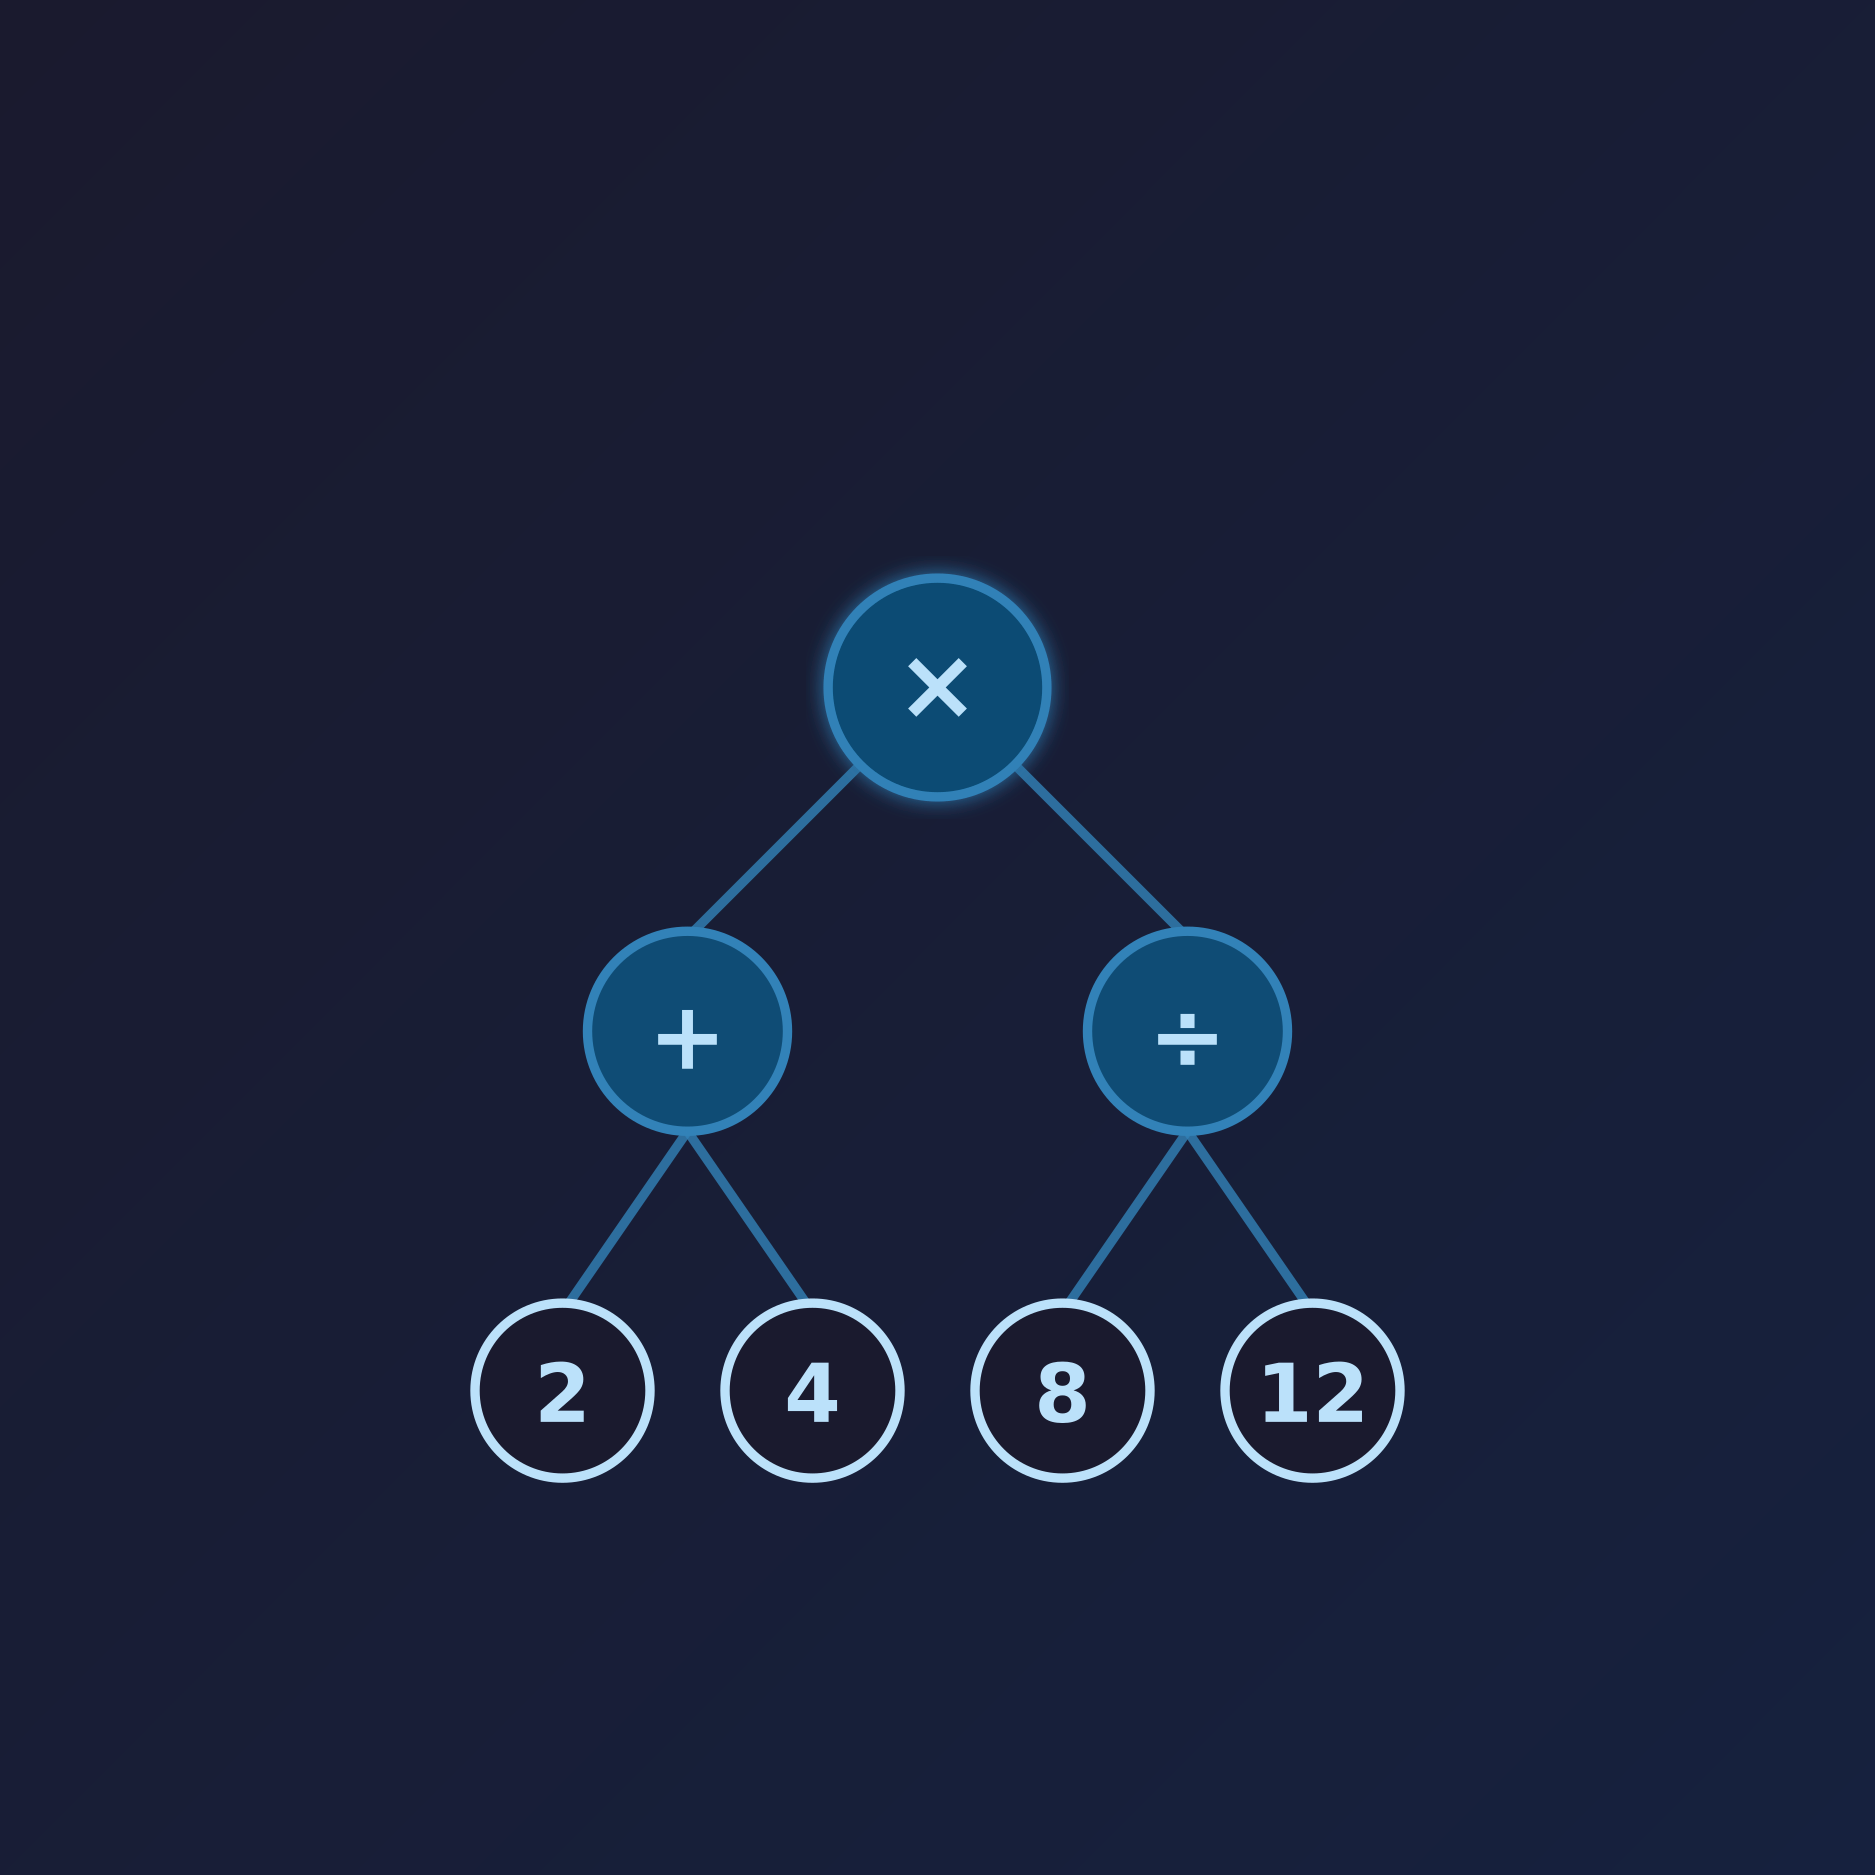
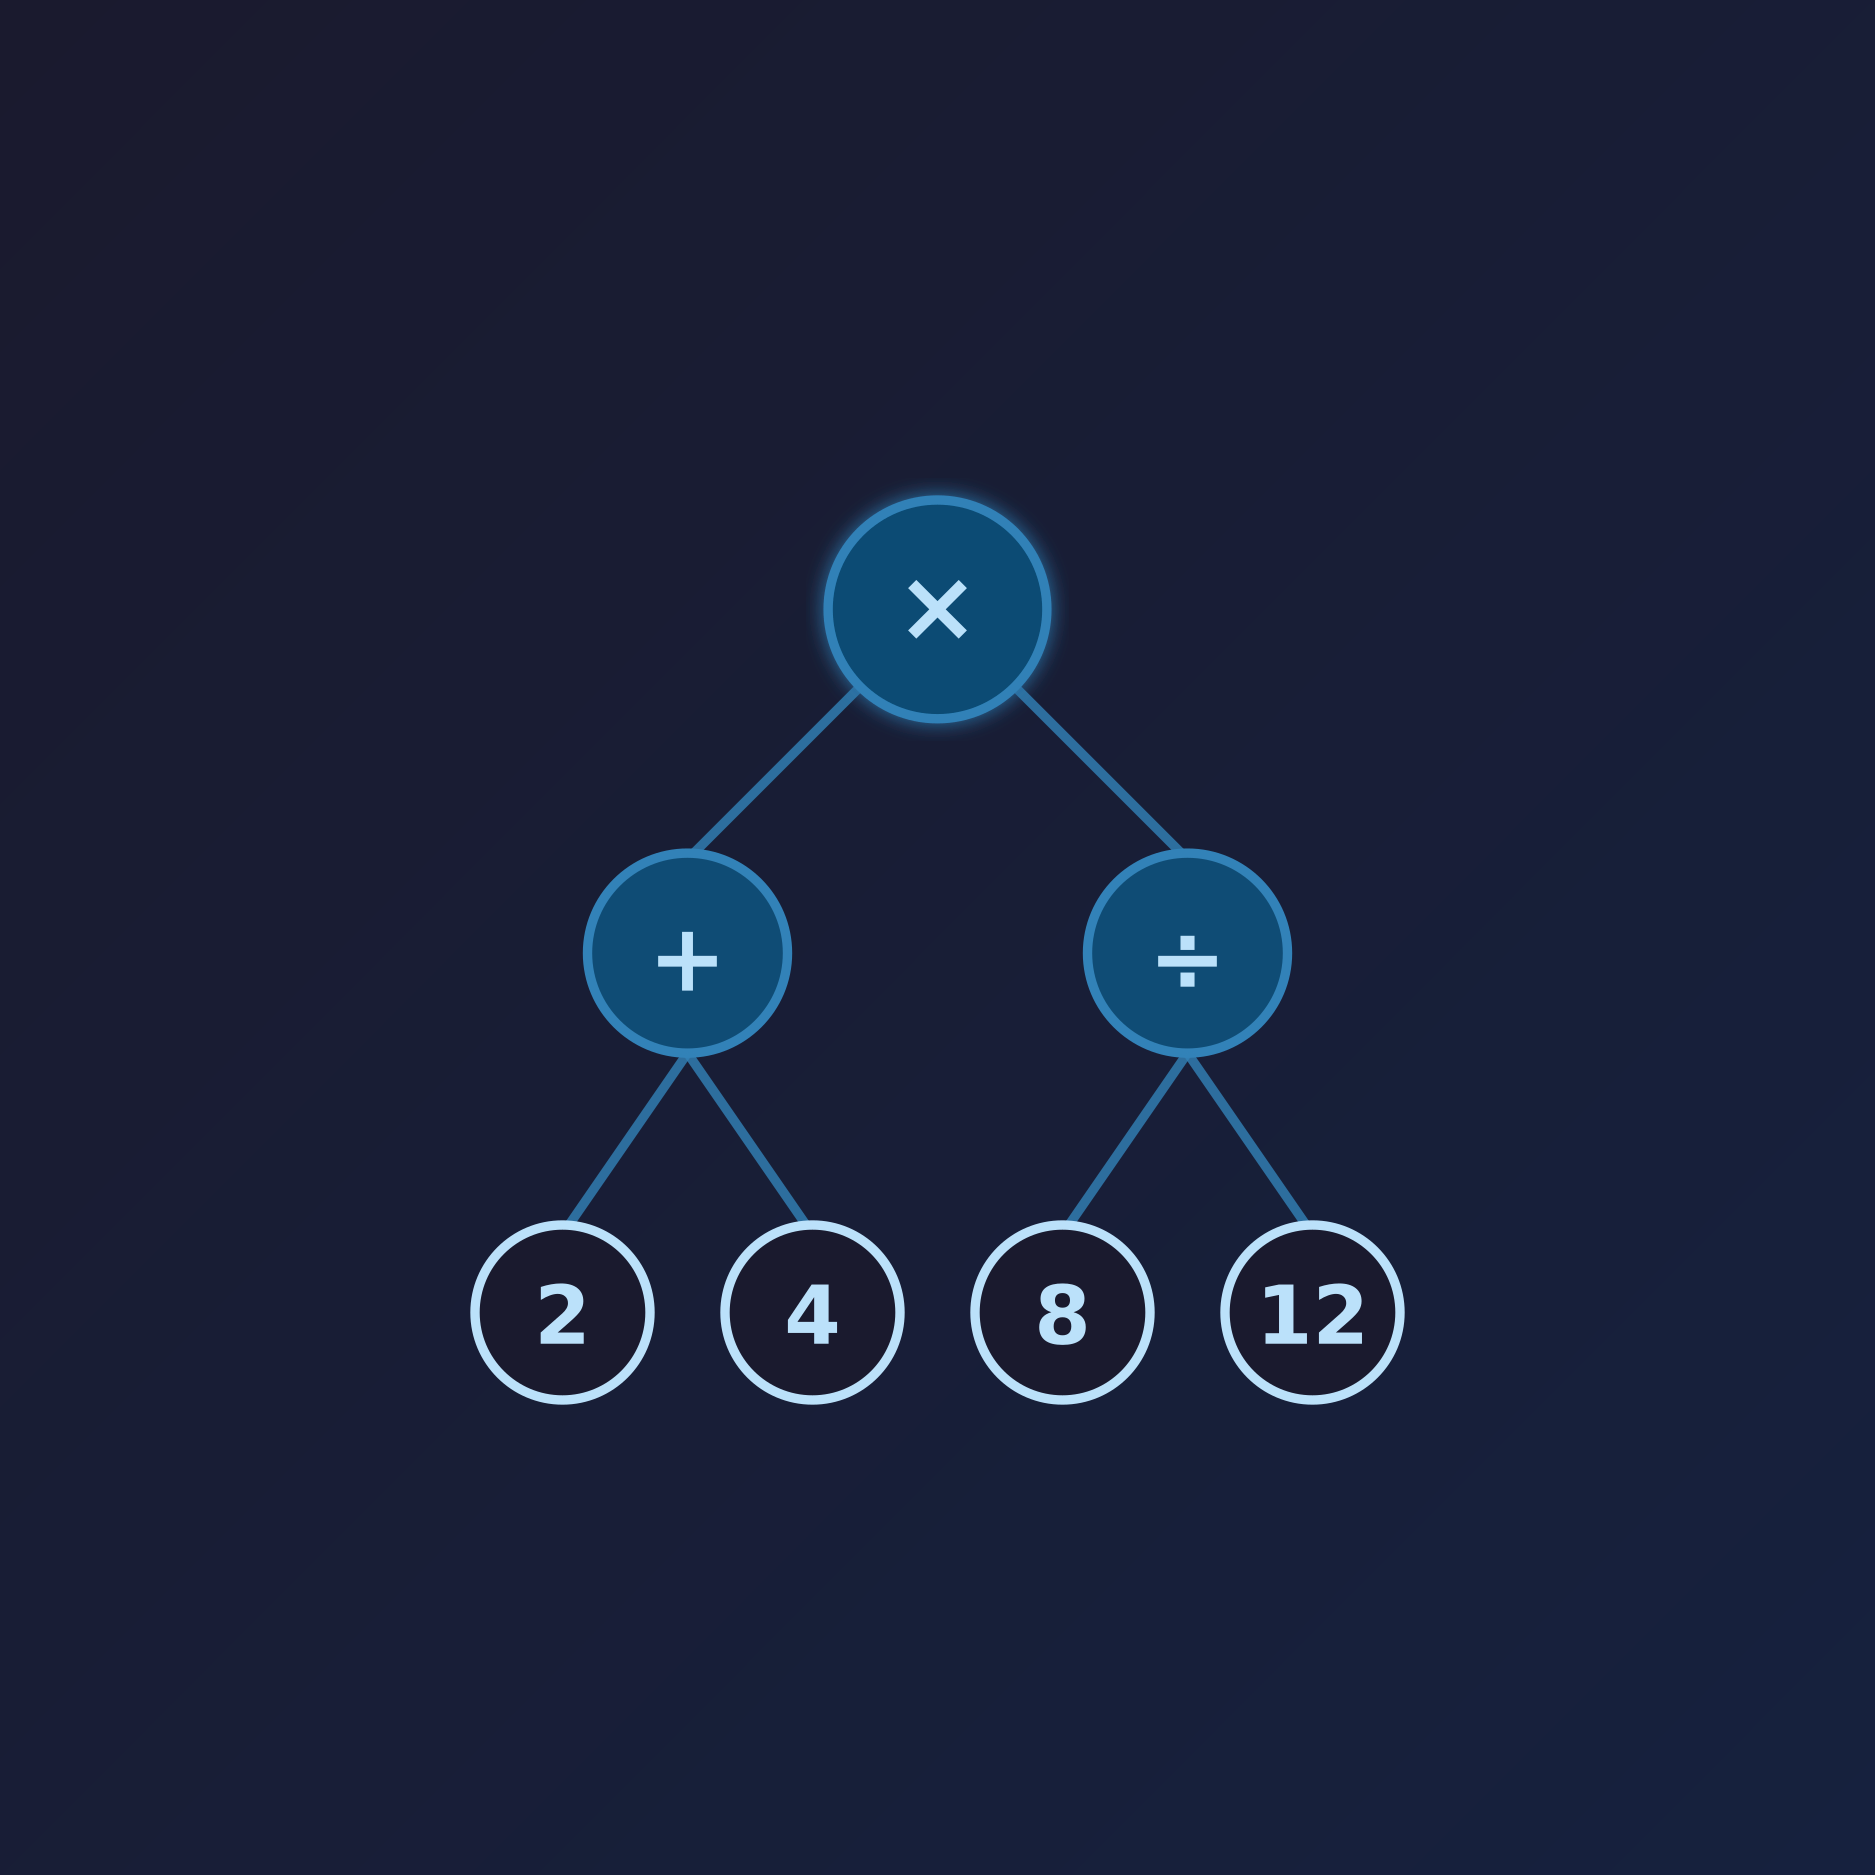
2 projects done so far

Changed region(s): [[0.2475, 0.2475, 0.7733, 0.8043]]

diff --git a/src/config.ts b/src/config.ts
@@ -97,7 +97,7 @@ export interface SiteConfig {
  */
 export const siteConfig: SiteConfig = {
   name: "Alexandre Sauquet",
-  title: "CS @ Purdue",
+  title: "CS @ Purdue '27",
   description:
     `I'm a third year student at Purdue University studying Computer Science, Artificial Intelligence, Statistics, and Mathematics. ` +
     `I'm particularly interested in machine learning and algorithms, with a focus on optimization methods and their real-world applications. ` +

diff --git a/src/content/projects/number_expression_solver.md b/src/content/projects/number_expression_solver.md
@@ -4,6 +4,6 @@ description: "A Python solver that exhaustively finds all possible mathematical 
 image: "/public/images/projects/number_expression_solver.png"
 startDate: "2025-10-31"
 endDate: "2025-11-10"
-skills: ["Python", "Reverse Polish Notation", "Multiprocessing", "Tree structure"]
+skills: ["Python", "Combinatorial Optimization", "Multiprocessing"]
 sourceLink: "https://github.com/SauquetAlex/Number-Expression-Solver"
 ---

diff --git a/src/content/work/probability_management.md b/src/content/work/probability_management.md
@@ -2,8 +2,8 @@
 title: "Probability Management"
 subtitle: "Intern"
 logo: "/images/work/probability_management_inc_logo.jpeg"
-startDate: "2022-07-01"
-endDate: "2023-07-01"
+startDate: "2022-06-16"
+endDate: "2023-06-17"
 link: "https://www.probabilitymanagement.org/"
 ---
 

diff --git a/src/content/work/castsoftware.md b/src/content/work/castsoftware.md
@@ -2,8 +2,8 @@
 title: "CAST Software"
 subtitle: "Intern AI"
 logo: "/images/work/cast_software_logo.jpeg"
-startDate: "2025-05-01"
-endDate: "2025-08-01"
+startDate: "2025-05-27"
+endDate: "2025-08-15"
 link: "https://www.castsoftware.com/"
 ---
 

diff --git a/src/content/work/duarte.md b/src/content/work/duarte.md
@@ -2,8 +2,8 @@
 title: "Duarte"
 subtitle: "Jr. AI Engineer Intern"
 logo: "/images/work/duarte_design_logo.jpeg"
-startDate: "2024-05-01"
-endDate: "2024-08-01"
+startDate: "2024-05-20"
+endDate: "2024-08-02"
 link: "https://www.duarte.com/"
 ---
 
